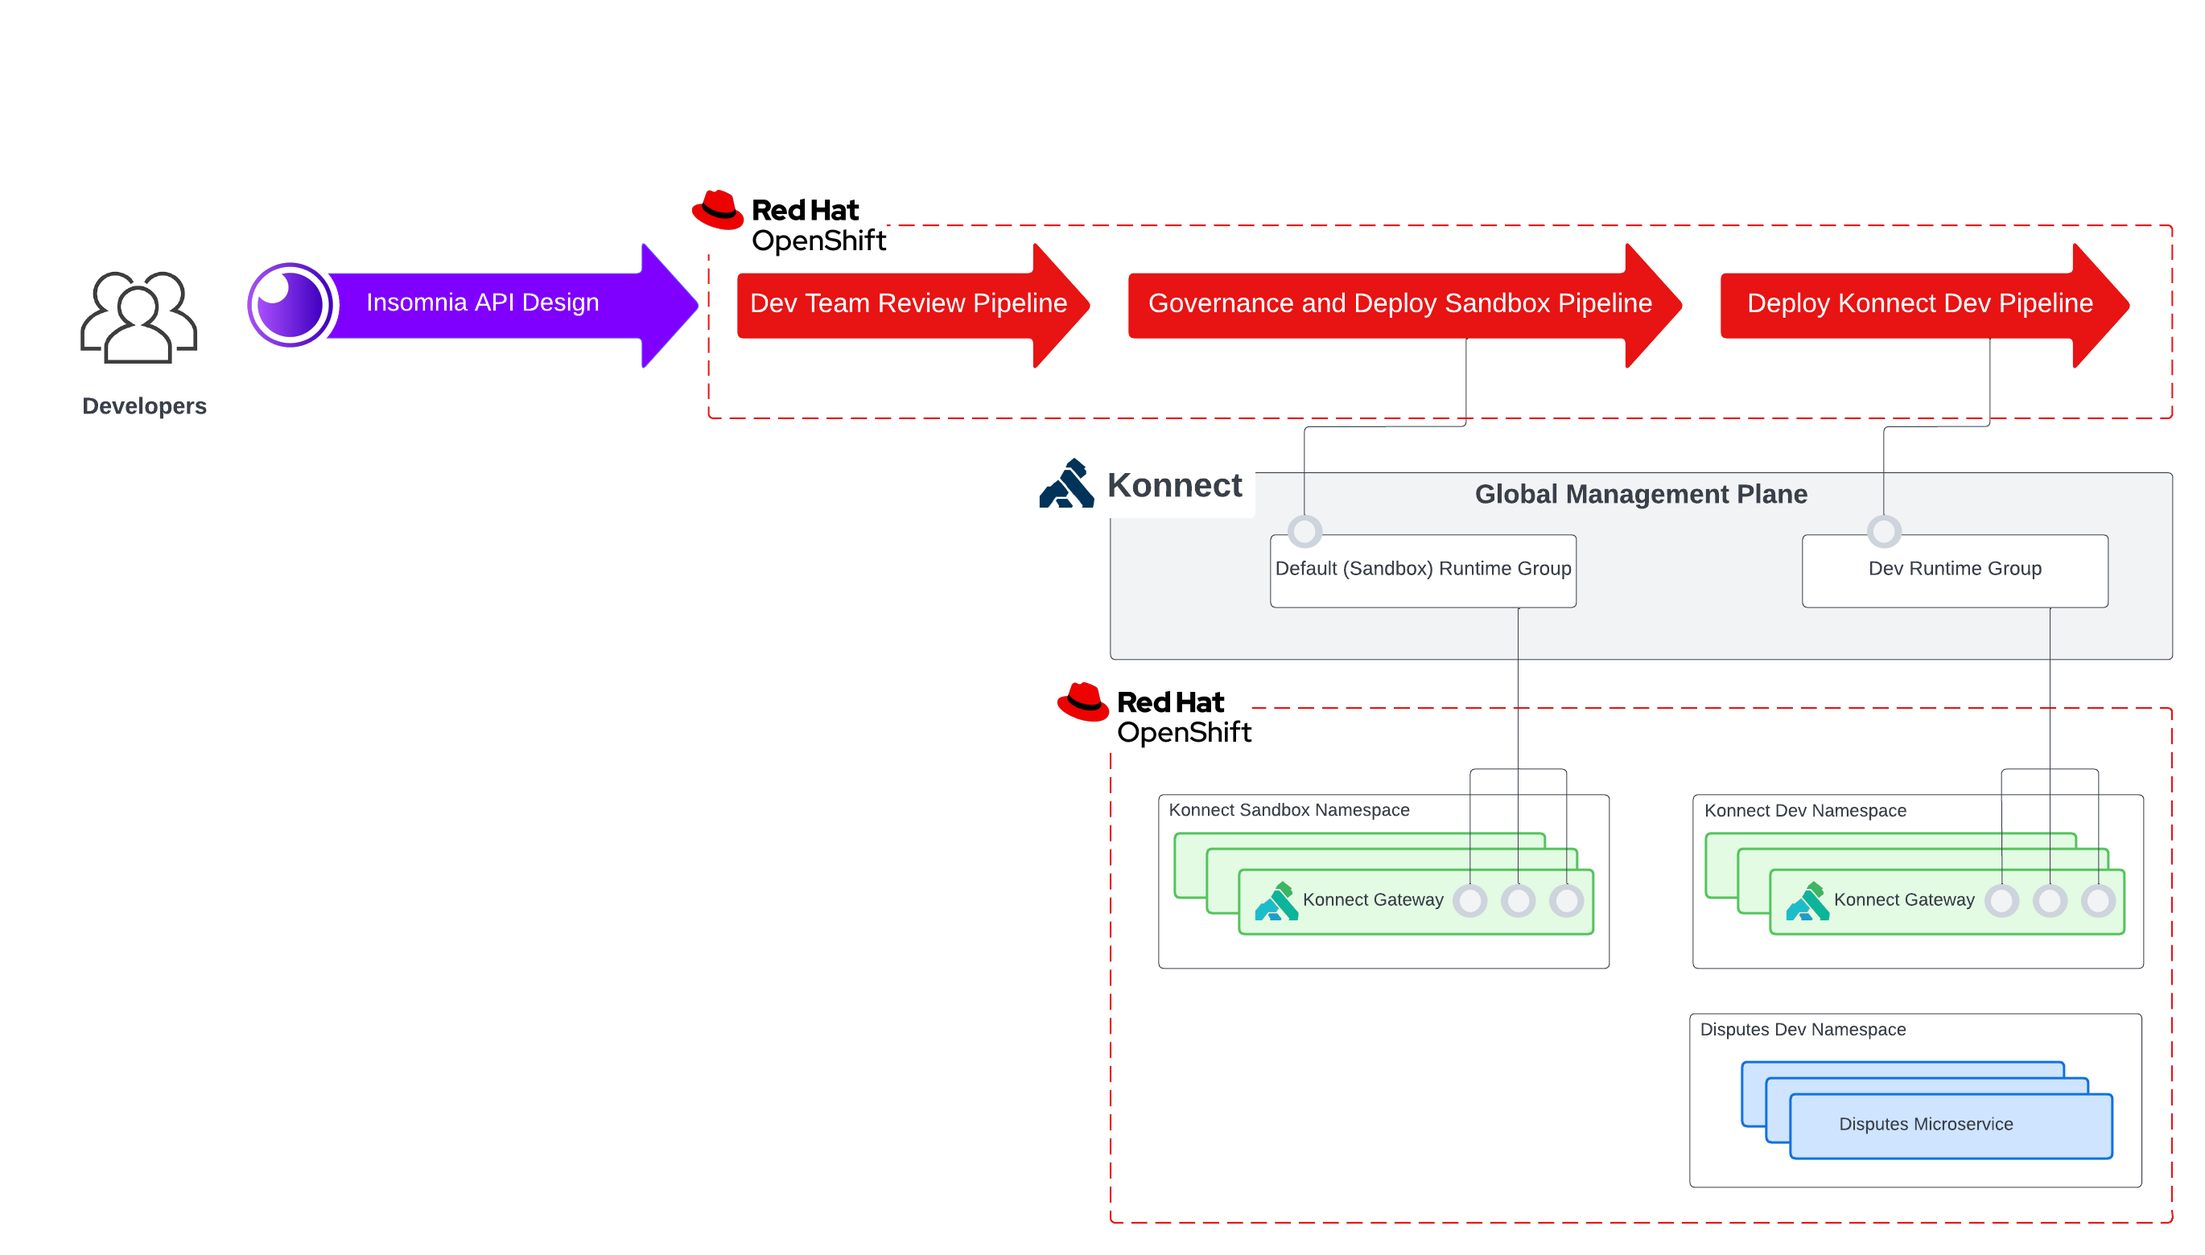
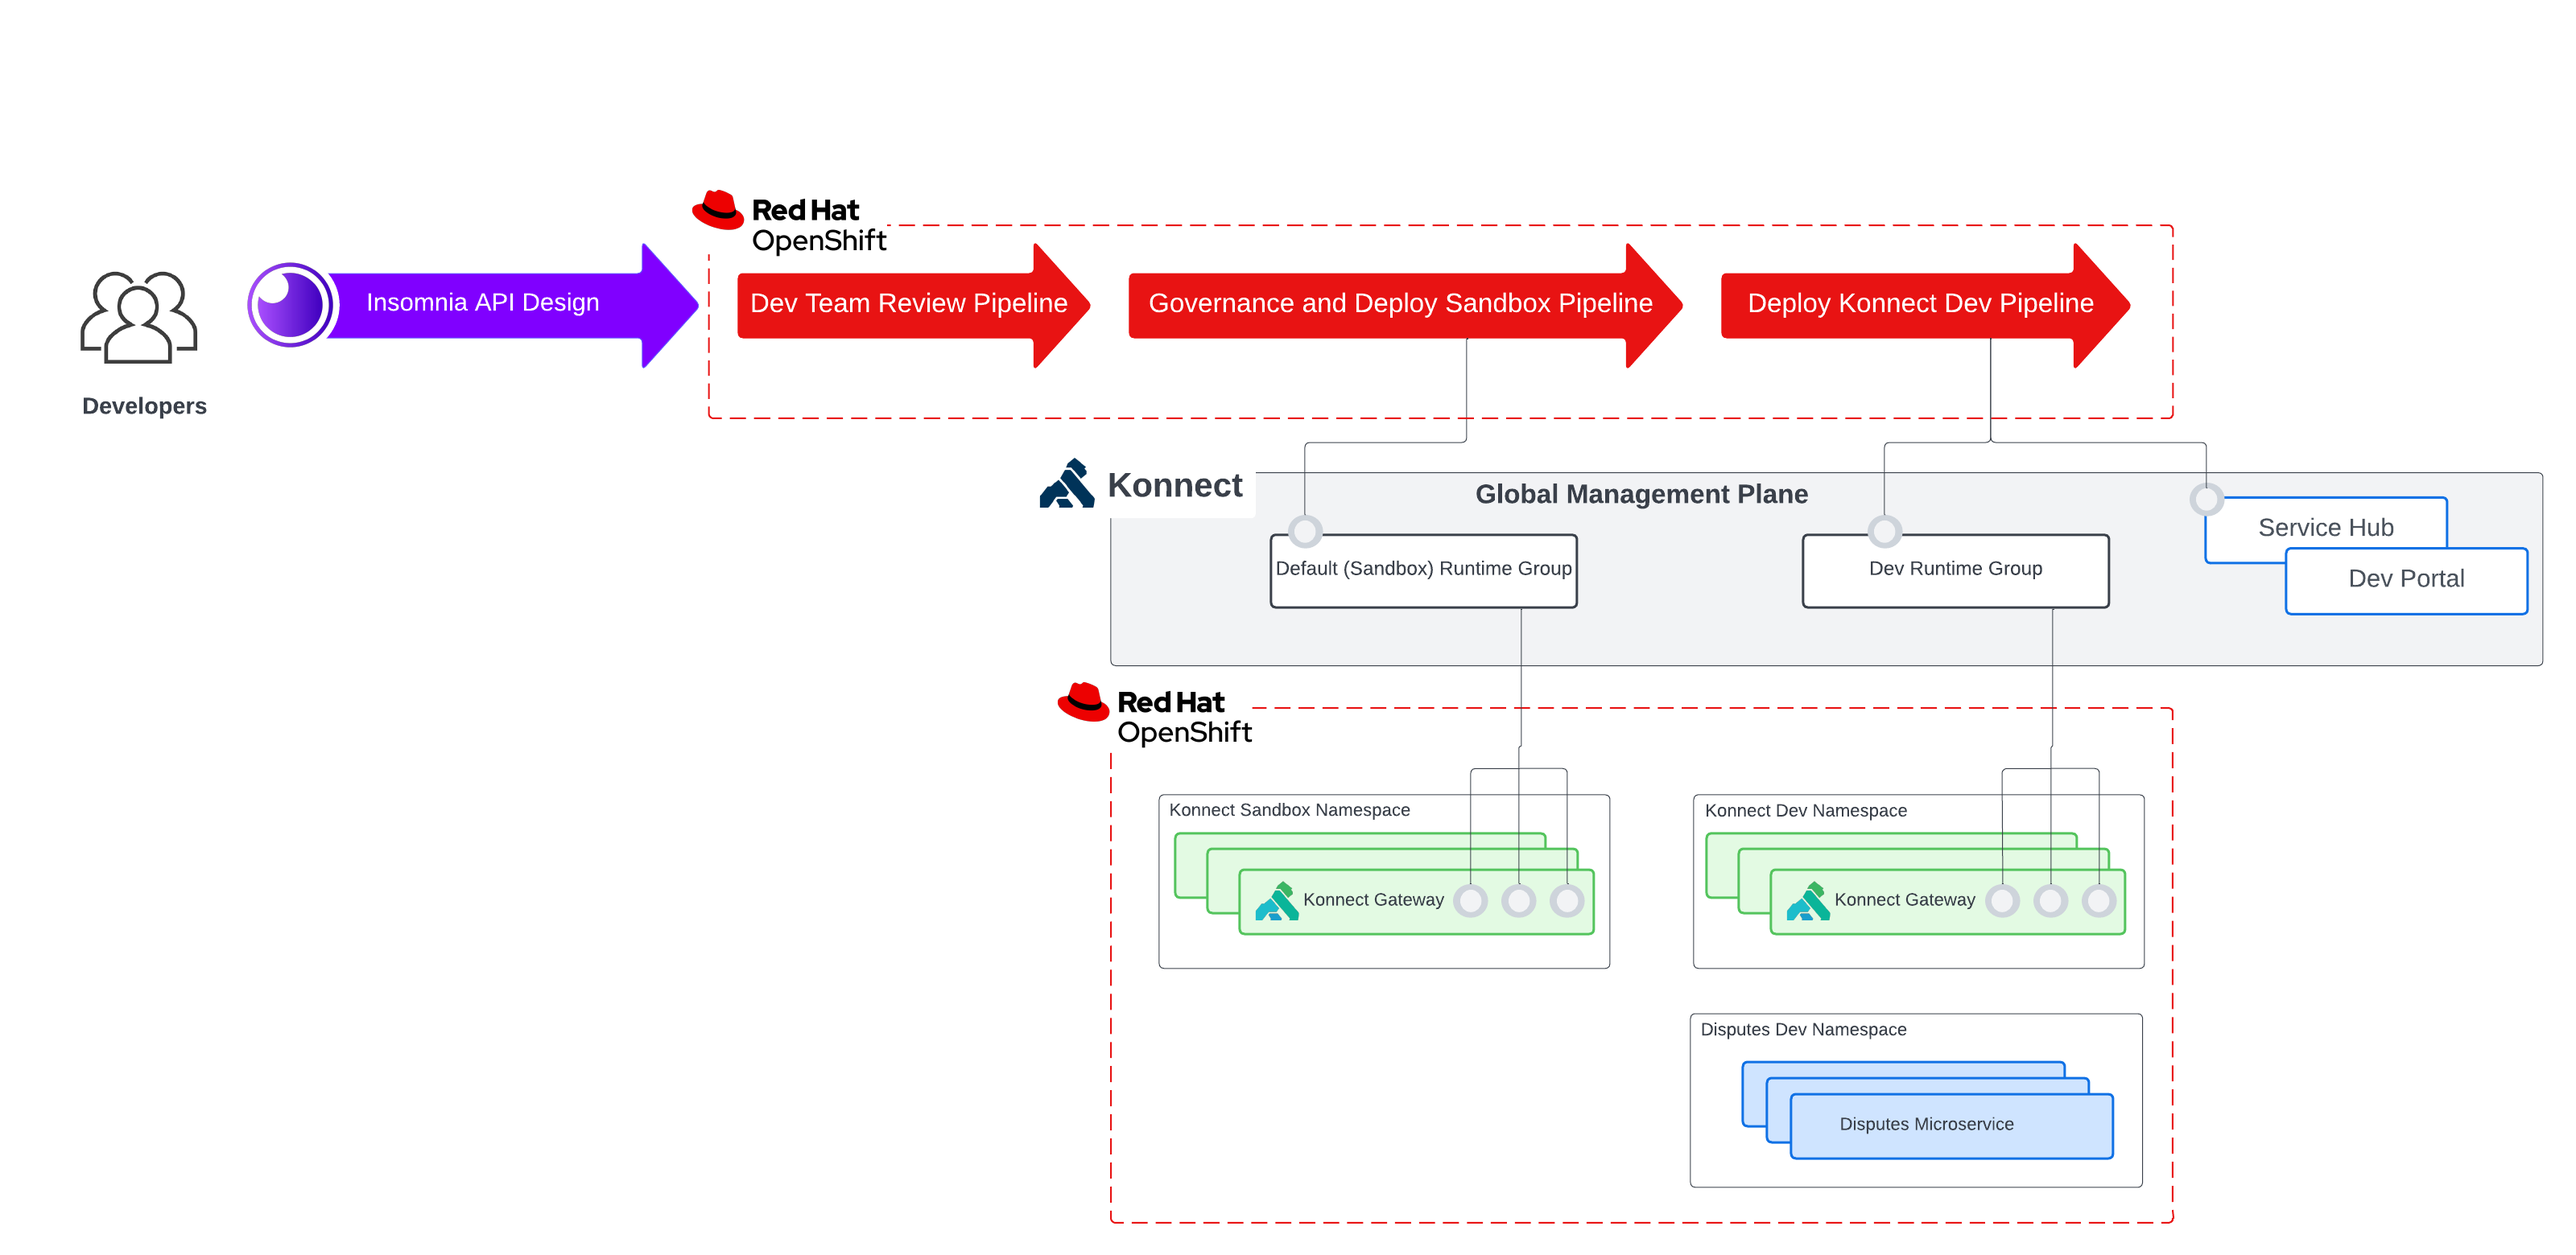
docs - devops tutorial step 1

diff --git a/README.md b/README.md
@@ -24,17 +24,19 @@ The objective of this demo is to showcase how to streamline Kong API management 
 
 ## Tutorial Overview
 
-### Activities
+### AcmeBank Disputes APISpec Tutorial
 
-Four tasks will be executed to demonstrate how take a APISpec from design in Insomnia to automated API administration that will be promoted to two Konnect environments.
+For this tutorial you will be working on the Acmebank Disputes APISpec.
 
-**First**, via the Insomnia Design Tool, the APISpec will be imported, updated, and changes commited to source control.
+**First**, you will get hands on experiences with Insomnia. The Disputes APISpec will be imported, updated, and the changes commited to source control all from Insomnia.
 
-**Second**, once the apispec is commited, three CI/CD pipelines will be manually executed that will submit the apispec for review, a review/governance pipeline to validate it passes custom requirements, and promote the API to the appropriate environment:
+**Second**, once the APISpec has been commited to source controle, you will execute three tekton CI/CD pipelines sequentially, to review and publish the API to the appropriate Gateway Environment.
 
-1. **disputes-apispec-review pipeline** - will open a pr to push apispec to konnect-sandbox runtime group.
-2. **api-gateway-sandbox-pipeline** - review open prs on sandbox, execute governance tests, and api administration to the konnect sandbox runtime group.
-3. **api-gatway-dev-pipeline** - will open pr to publish apispec to dev runtime group and Konnect Service Hub for Dev Portal Integration.
+1. **disputes-apispec-review pipeline** - will open a pr to push the APISpec to the konnect-sandbox runtime group.
+2. **api-gateway-sandbox-pipeline** - will review open prs to konnect-sandbox: execute custom governance linting of the APISpec, validate the deck transformation, and finally deck sync to administer the API to to the konnect-sandbox runtime group.
+3. **api-gatway-dev-pipeline** - will publish the APISpec to konnect-dev runtime group and Konnect Service Hub for Dev Portal Integration.
+
+The diagram below summarizes the steps described above and aligns the pipelines to the Konnect Infrastructure.
 
 <img src="img/arch.png" alt="kong apisecops apiops rosa"/>
 
@@ -50,11 +52,13 @@ Each runtime group will be provisioned 1 runtime instance (also referred to as a
 
 **Openshift Pipelines/Tekton**
 
-The three pipelines to be executed will be in the namespaces `disputes-apispec` and `apiops-gateway` namespaces respectively. The seperate is demonstrate how pipeliens belonging to different personas (Dev Teams vs. Governance and API Operator teams) can be managed in a more secure fashion.
+The three pipelines to be executed will be in the namespaces `disputes-apispec` and `apiops-gateway` namespaces respectively. The seperation between namespaces is demonstrate how pipelines belonging to different personas (Dev Teams vs. Governance and API Operator teams) can be managed in a more secure fashion.
 
 **Gitea (Self-hosted Git service)**
 
-Gitea is a self-hosted Git service. It is stood up in the cluster in the `gitea` namespace. Two the git repos required to run the demo are imported, and any dummy passwords needed for the demo are seeded in the projects and provided to the user. This is just to minimize external dependencies.
+Gitea is a self-hosted Git service. It is stood up in the cluster in the `gitea` namespace. Two the git repos required to run the demo are imported, and any dummy passwords needed for the demo are seeded in the projects and provided to the user. Details on the two repositories:
+
+`acmeback-disputes-apispec`: Contains the `.insomnia` design disputes API Design doc.
 
 **Disputes Sample Application**
 
@@ -126,7 +130,58 @@ Any required information, urls, dummy passwords, load balancers, are spit out as
 
 ## Devops Tutorial
 
-### Step 1
+### Step 1 - Update the APISpec in Insomnia
+
+**Import the APISpec**
+
+Copy the `gitea url`, located in `ansible/demo_facts.json` to your clipboard.
+
+In the browser navigate to gitea url --> trust the certificate, it is a self-signed cert provisioned by the Openshift CA --> login with username, password `gitea` and `openshift` --> navigate to `acmebank-disputes-apispec` --> select `copy` to copy HTTP repo url.
+
+Open Insomnia --> Within your Personal Project Select `Import From` --> in the dropdown select `Git Clone` --> a `Configure Repository` Window will open.
+
+In `Configure Repository` --> Select the `Git` Tab --> Fill in the following details:
+
+* **Git URI** - url to acmebank-disputes-apispec in your clipboard (example: `http://gitea-gitea.apps.df-rosa.14w1.p1.openshiftapps.com/gitea/acmebank-disputes-apispec.git`)
+
+* **Author Name** - apisecops-demo
+* **Author Email** - apisecops@demo-example.com
+* **Username** - gitea
+* **Authenticatino Token** - openshift
+
+Within your Insomnia Project you should see 1 design document, `disputes.yaml`. Open the document to make corrections.
+
+**Fix OAS Linting Concerns**
+
+1. `line 2 - info object must have "contact" object` Copy the following to the info object:
+
+```console
+    contact: 
+        name: "AcmeBank Disputes Team"
+        url: "http://disputes-acmebank.com/support"
+        email: "disputes-support@acmebank.com"
+```
+
+2. `line 25 - Operation "description" must be present and non-empty string` This is pertaining to the /disputes.get.operation object. To the object add the `description` field and string as show below:
+
+```console
+    operationId: "getListDispute"
+    description: "Returns a list of Disputes"
+    summary: Return a list of disputes
+```
+
+3. `line 62 - Operation "description" must be present and non-empty string` This again is the same error as above, but to the /disputes/{id}.get.operation object. 
+
+To the object add the `description` field and string as show below:
+
+```console
+      operationId: "getDispute"
+      ...
+      description: "Return a dispute by id"
+      summary: Return a dispute by id.
+```
+
+### Step 2
 
 Dev Team Persona - APISpec Design is complete, pr to security team for review and deploy to sandbox environment.
 
@@ -136,7 +191,7 @@ Execute Pipeline 1:
 oc create -f run/disputes-pipeline-run.yaml
 ```
 
-### Step 2
+### Step 3
 
 APIOps Persona - automatically validate the new apispec, and deploy to sandbox for teams to begin discovering and developing aginst
 
@@ -148,7 +203,7 @@ oc create -f run/apiops-sandbox-pipeline-run.yaml
 
 As an APIOps Person - I will have a PR approval process protecting my branches. In the case of the demo an APIOperator will manually merge in the pr.
 
-### Step 3
+### Step 4
 
 Dev Persona - I am ready to let teams test the working API, I will deploy the dev, and request security to deploy the api to dev.
 
